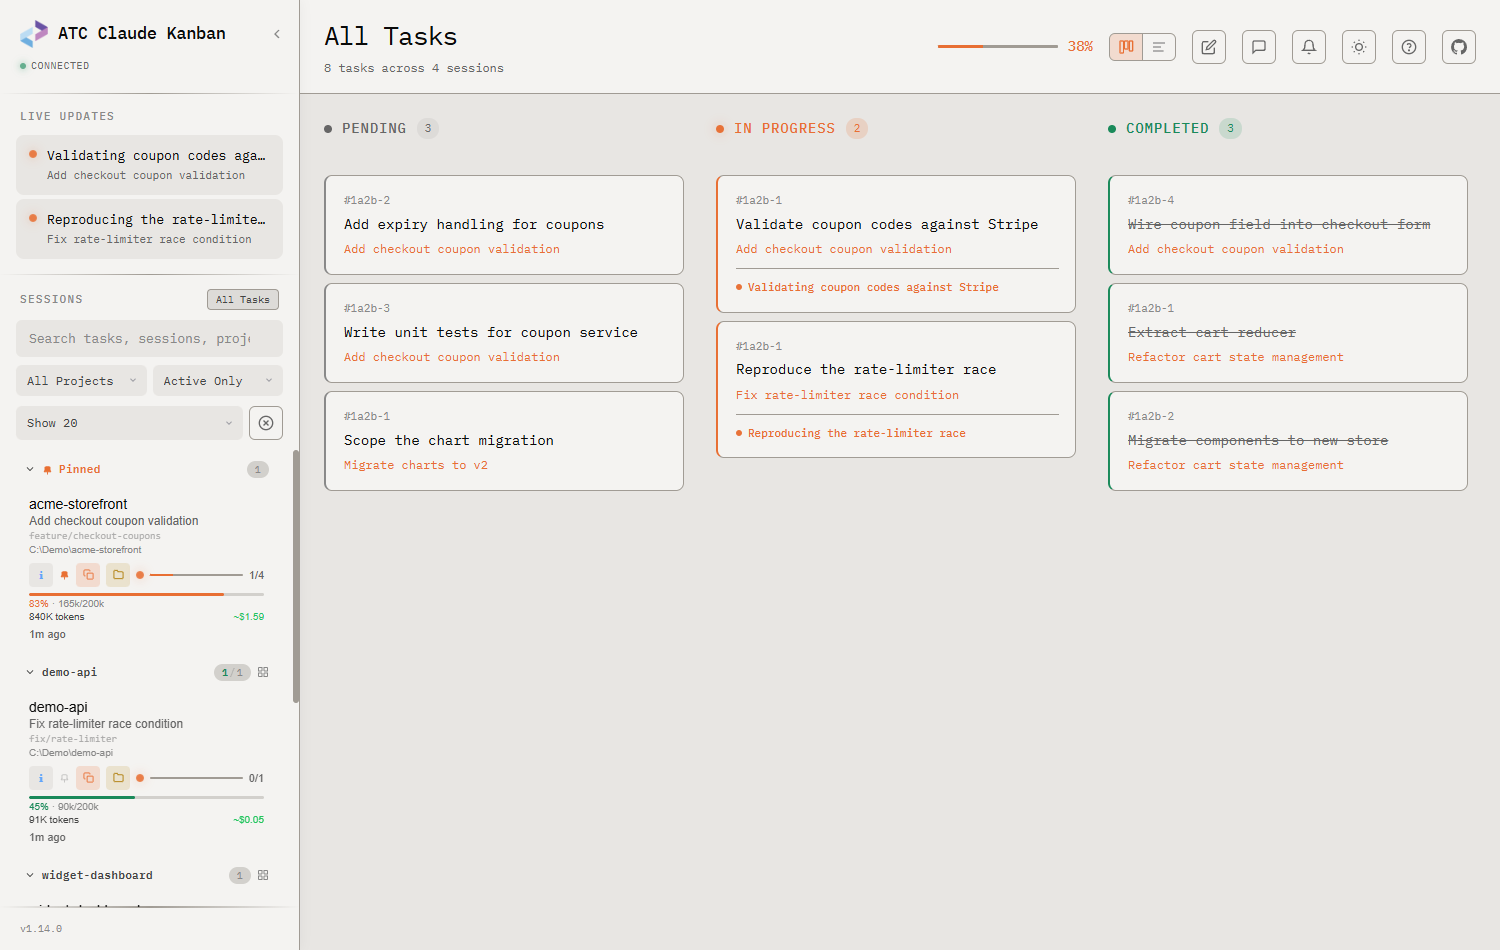
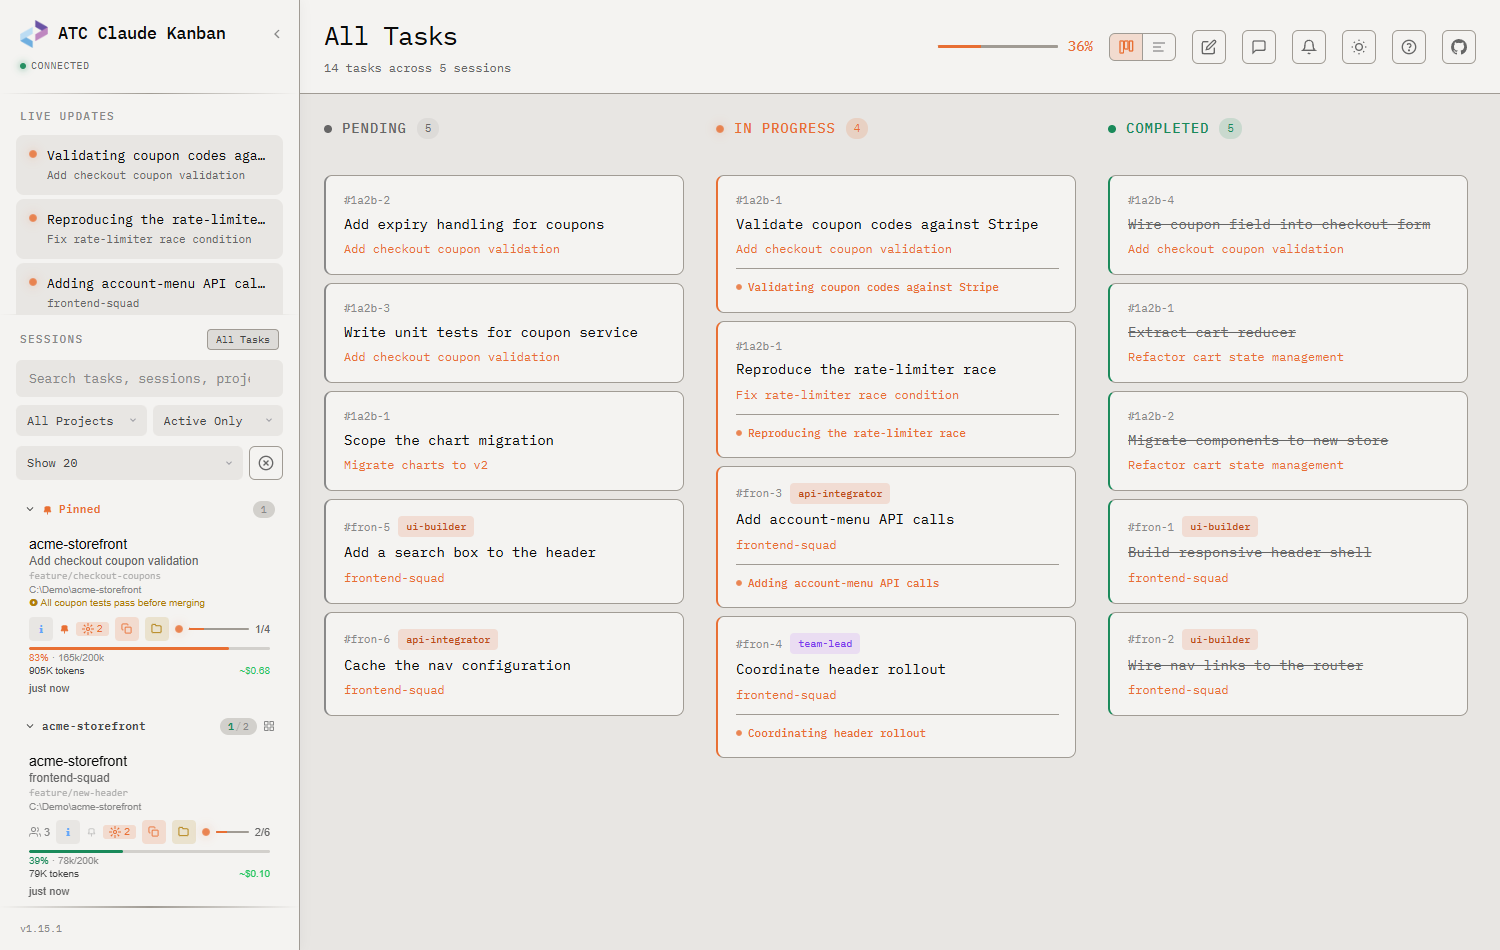
docs: document session goals, queued messages, and structured message detail
Update the README feature list and sections for the session /goal subtitle,
queued-message rendering, structured command/notification detail, and
auto-expanding active project sections. Seed a goal_status and a queued
prompt into the demo fixture, and regenerate the overview screenshots
(showing the goal subtitle) plus a new session-log screenshot (showing the
queued badge).

diff --git a/README.md b/README.md
@@ -17,9 +17,10 @@ Real-time Kanban dashboard for monitoring [Claude Code](https://docs.anthropic.c
 
 **Sessions & sidebar**
 
-- 🗂️ **Project grouping** — sessions grouped by project under collapsible headers with active/total counts
+- 🗂️ **Project grouping** — sessions grouped by project under collapsible headers with active/total counts; sections auto-expand when active work lands in them
 - 📌 **Session pinning** — pin sessions to a collapsible group at the top (persisted)
 - 🎯 **Activity status** — thinking/waiting/idle/error indicators per session, derived from JSONL
+- 🏁 **Session goals** — an active `/goal` condition surfaces as a card subtitle and in the session info modal
 - 🧮 **Context-window meter** — per-session bar showing how full the context window is (200K, or 1M inferred)
 - 💰 **Token & cost tracking** — accumulated token usage and model-aware cost per session
 - 🔍 **Fuzzy search** — across sessions, tasks, descriptions, and project paths
@@ -168,6 +169,9 @@ Toggle with the chat icon in the toolbar or `Shift+L`:
 
 - View the conversation transcript (user prompts, assistant responses, tool calls)
 - Tool parameter badges; click any tool entry to open its **full arguments** in the detail modal (including `mcp__*` tools, with object/array args shown as formatted JSON)
+- **Queued messages** — prompts queued mid-turn appear in the log with a `queued` badge (they aren't re-emitted as normal user lines, so they'd otherwise be invisible)
+- **Structured command & notification detail** — slash commands, command output, and task notifications render as labelled blocks in the detail modal instead of raw `<command-name>`/`<task-notification>` XML; the list collapses a slash command to its name
+- **Compaction collapse** — each `/compact` shows as a single expandable "Compacted" entry carrying the continuation summary, not several stacked markers
 - **AskUserQuestion** entries show the question, the chosen answer, and each option's description
 - **User image attachments** appear as chips that open a full-size preview
 - Read tool calls show inline offset/limit annotations (e.g., `L45 +30`)
@@ -179,6 +183,10 @@ Toggle with the chat icon in the toolbar or `Shift+L`:
 - Click a message to open a detail modal with a fullscreen toggle for wide tool outputs
 
 <p align="center">
+  <img src="docs/msg-log-dark.png" alt="Session log panel with tool icons, a queued prompt badge, and per-model assistant labels" width="900">
+</p>
+
+<p align="center">
   <img src="docs/msg-detail-dark.png" alt="AskUserQuestion answers rendered in the message detail modal" width="900">
 </p>
 
@@ -188,6 +196,7 @@ Click the info button on any session to view detailed metadata:
 
 - Session ID, project path, git branch, and description
 - Working directory (CWD) shown when it differs from the project root
+- **Active goal** — the session's current `/goal` condition, shown in full (a met or cleared goal disappears)
 - Plan viewer, copy path, open folder, **Tool Statistics**, and **Session Usage** actions
 - **Dismiss button** — temporarily hide a session from the active list (in-memory only, restores on reload or in "All" view)
 
@@ -232,7 +241,7 @@ The **Tool Statistics** modal (bar-chart icon in the session info modal) aggrega
 
 ### 🗂️ Project Grouping & Pinning
 
-Sidebar sessions are grouped by project under collapsible headers. Each header shows an **active/total** count (e.g. `2/5`, active part in green) and a project-view button. **Pin** any session via its pin icon to lift it into a collapsible "Pinned" group at the top. Collapsed groups and pins persist in `localStorage`.
+Sidebar sessions are grouped by project under collapsible headers. Each header shows an **active/total** count (e.g. `2/5`, active part in green) and a project-view button. A collapsed section **auto-expands** when newly-active work lands in it (and when you switch to the "Active Only" filter), so running sessions stay visible; idle sections stay collapsed. **Pin** any session via its pin icon to lift it into a collapsible "Pinned" group at the top. Collapsed groups and pins persist in `localStorage`.
 
 ### 🌗 Themes
 